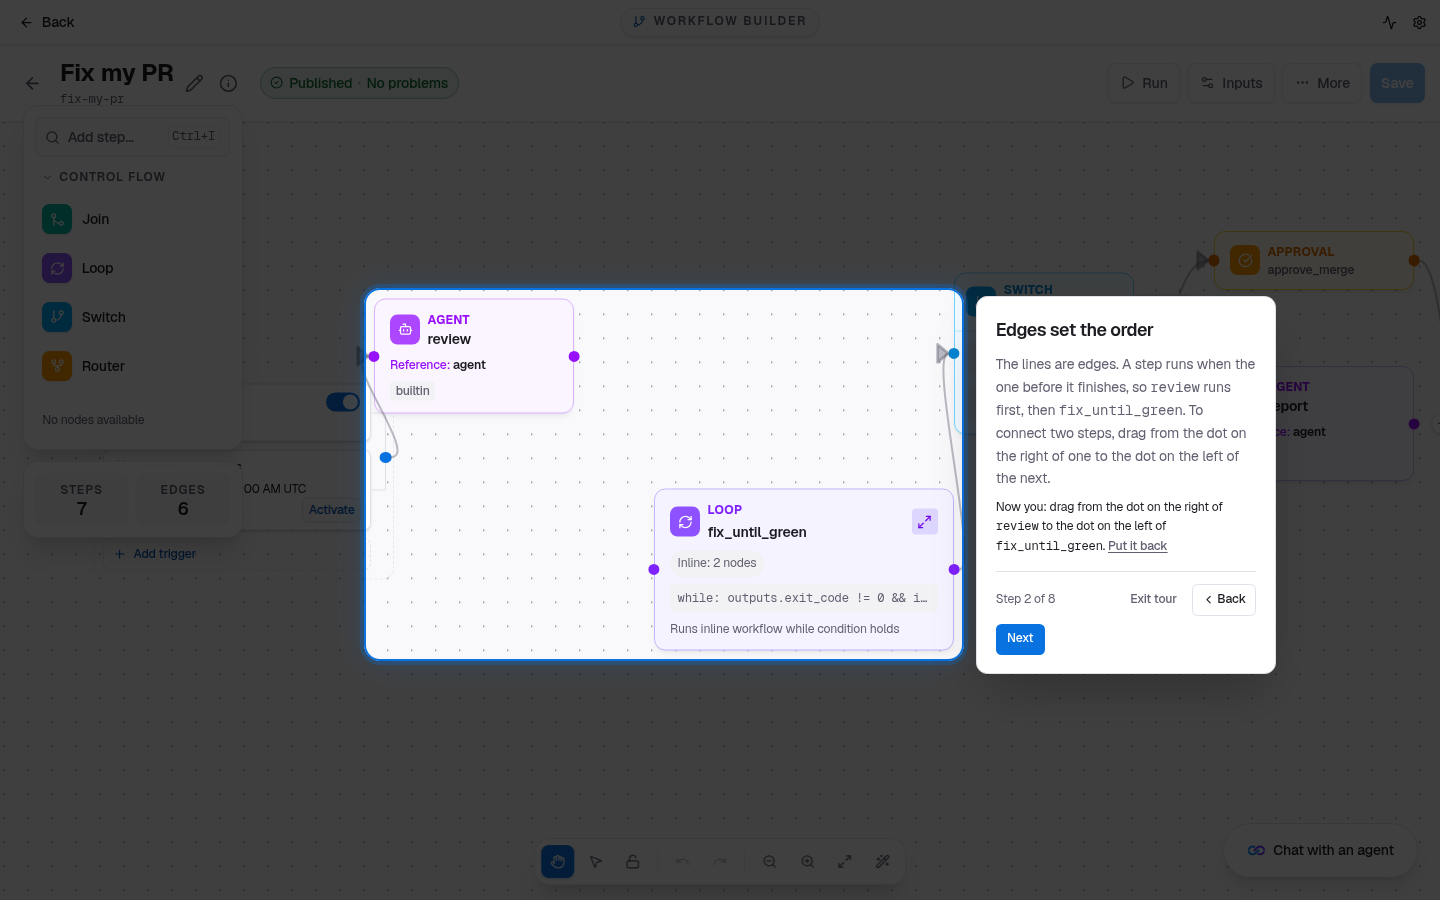
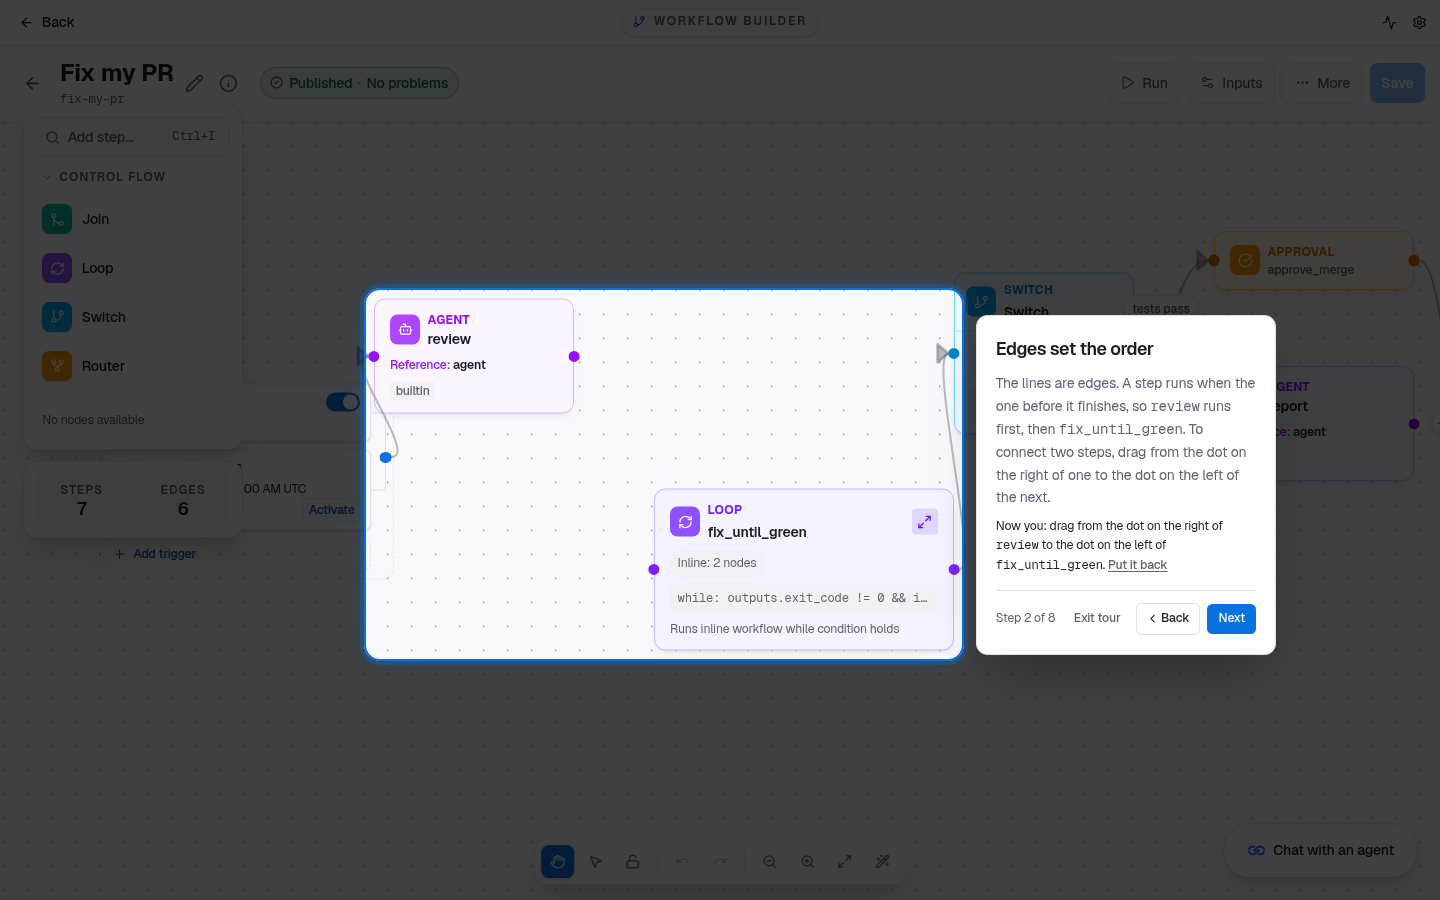
fix(web): tour controls keep Back and Next on one row
The footer's spacer and gaps pushed Next under Back on a three-button step (the
workflows tour's step 2). The actions are now one right-aligned group that wraps
as a unit under the step count when a card is too narrow, and Back and Next sit
in their own pair, so they never part. Re-shot step 2 (desktop, laptop).

Changed region(s): [[0.6562, 0.3111, 0.9062, 0.7467]]

diff --git a/frontends/web/src/components/Onboarding/TourControls.tsx b/frontends/web/src/components/Onboarding/TourControls.tsx
@@ -78,63 +78,68 @@ export function TourControls({
       {!single && <span className="text-xs tabular-nums text-muted-foreground" data-testid="tour-step-count">
         Step {stepNumber} of {totalSteps}
       </span>}
-      <span className="flex-1" />
-      {onExit && !last && (
-        <button
-          type="button"
-          onClick={onExit}
-          className={`${TAP} px-1 text-xs font-medium text-muted-foreground underline-offset-2 hover:text-foreground hover:underline`}
-          data-testid="tour-exit"
-        >
-          {exitLabel}
-        </button>
-      )}
-      {secondary && (
-        <button
-          type="button"
-          onClick={secondary.onClick}
-          className={`${TAP} px-1 text-xs font-medium text-foreground underline-offset-2 hover:underline`}
-          data-testid="tour-secondary"
-        >
-          {secondary.label}
-        </button>
-      )}
-      {skip && (
-        <button
-          type="button"
-          onClick={skip.onClick}
-          className={`${TAP} rounded-md border border-border px-2.5 py-1.5 text-xs font-medium text-foreground hover:bg-muted`}
-          data-testid="tour-skip"
-        >
-          {skip.label}
-        </button>
-      )}
-      {onBack && !single && (
-        <button
-          type="button"
-          onClick={onBack}
-          className={`${TAP} inline-flex items-center gap-0.5 rounded-md border border-border px-2.5 py-1.5 text-xs font-medium text-foreground hover:bg-muted`}
-          data-testid="tour-back"
-        >
-          <ChevronLeft className="h-3.5 w-3.5" aria-hidden="true" />
-          Back
-        </button>
-      )}
-      {onNext && (
-        <button
-          type="button"
-          onClick={onNext}
-          disabled={nextDisabled}
-          title={nextDisabled ? nextDisabledReason : undefined}
-          aria-describedby={nextDisabled && nextDisabledReason ? "tour-next-reason" : undefined}
-          className={`${TAP} inline-flex items-center gap-1 rounded-md bg-primary px-3 py-1.5 text-xs font-medium text-primary-foreground hover:bg-primary/90 disabled:cursor-not-allowed disabled:opacity-50`}
-          data-testid="tour-next"
-          data-done={actionDone || undefined}
-        >
-          {actionDone && <Check className="h-3.5 w-3.5" aria-label="Done" data-testid="tour-next-done" />}
-          {single ? "Done" : nextLabel}
-        </button>
-      )}
+      {/* The actions wrap as one group (under the step count, still on the
+          right) when the card is too narrow, and Back and Next never part. */}
+      <span className="ml-auto flex flex-wrap items-center justify-end gap-x-3 gap-y-2">
+        {onExit && !last && (
+          <button
+            type="button"
+            onClick={onExit}
+            className={`${TAP} px-1 text-xs font-medium text-muted-foreground underline-offset-2 hover:text-foreground hover:underline`}
+            data-testid="tour-exit"
+          >
+            {exitLabel}
+          </button>
+        )}
+        {secondary && (
+          <button
+            type="button"
+            onClick={secondary.onClick}
+            className={`${TAP} px-1 text-xs font-medium text-foreground underline-offset-2 hover:underline`}
+            data-testid="tour-secondary"
+          >
+            {secondary.label}
+          </button>
+        )}
+        {skip && (
+          <button
+            type="button"
+            onClick={skip.onClick}
+            className={`${TAP} rounded-md border border-border px-2.5 py-1.5 text-xs font-medium text-foreground hover:bg-muted`}
+            data-testid="tour-skip"
+          >
+            {skip.label}
+          </button>
+        )}
+        <span className="flex items-center gap-2">
+          {onBack && !single && (
+            <button
+              type="button"
+              onClick={onBack}
+              className={`${TAP} inline-flex items-center gap-0.5 rounded-md border border-border px-2.5 py-1.5 text-xs font-medium text-foreground hover:bg-muted`}
+              data-testid="tour-back"
+            >
+              <ChevronLeft className="h-3.5 w-3.5" aria-hidden="true" />
+              Back
+            </button>
+          )}
+          {onNext && (
+            <button
+              type="button"
+              onClick={onNext}
+              disabled={nextDisabled}
+              title={nextDisabled ? nextDisabledReason : undefined}
+              aria-describedby={nextDisabled && nextDisabledReason ? "tour-next-reason" : undefined}
+              className={`${TAP} inline-flex items-center gap-1 rounded-md bg-primary px-3 py-1.5 text-xs font-medium text-primary-foreground hover:bg-primary/90 disabled:cursor-not-allowed disabled:opacity-50`}
+              data-testid="tour-next"
+              data-done={actionDone || undefined}
+            >
+              {actionDone && <Check className="h-3.5 w-3.5" aria-label="Done" data-testid="tour-next-done" />}
+              {single ? "Done" : nextLabel}
+            </button>
+          )}
+        </span>
+      </span>
       {nextDisabled && nextDisabledReason && (
         <span id="tour-next-reason" className="sr-only">
           {nextDisabledReason}
